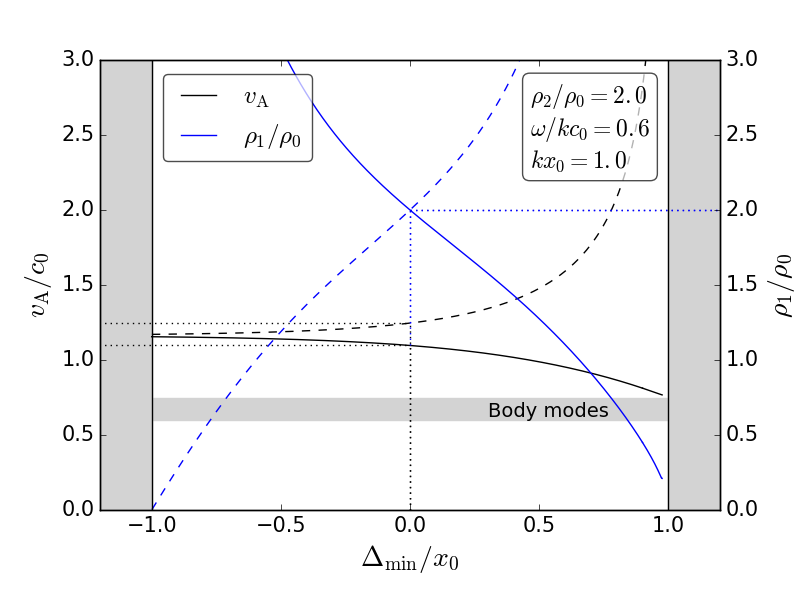
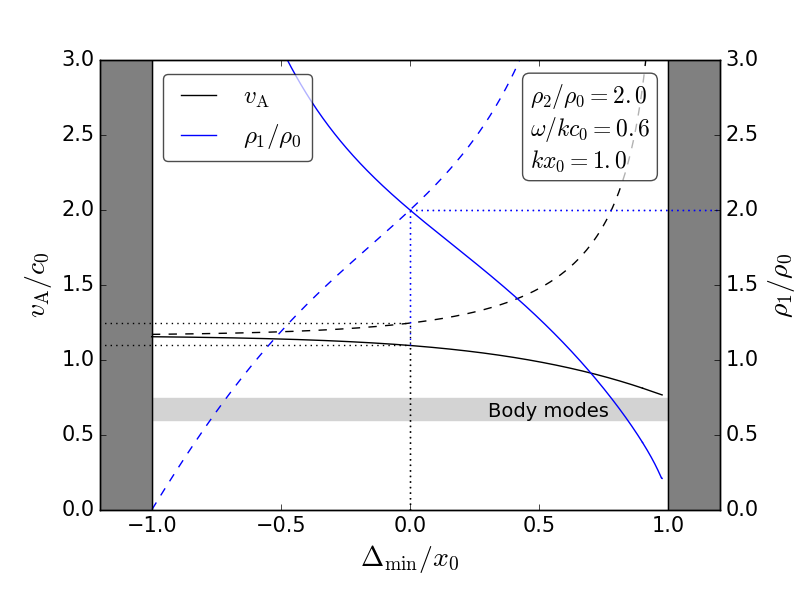
some things

Changed region(s): [[0.8125, 0.09, 0.9062, 0.87], [0.125, 0.09, 0.1875, 0.87]]

diff --git a/sms-vA-2var.py b/sms-vA-2var.py
@@ -338,8 +338,8 @@ if show_DM == True:
     ax1.set_ylabel(r'$v_\mathrm{A}/c_0$', fontsize = 20)
     ax1.set_xlabel(r'$\Delta_\mathrm{min}/x_0$', fontsize = 20)
     ax2.set_ylabel(r'$\rho_1 / \rho_0$', fontsize = 20)
-    ax1.fill_between((-1.2, -1.), (0.,0.), (5.,5.), color='lightgray')
-    ax1.fill_between((1., 1.2), (0.,0.), (5.,5.), color='lightgray')
+    ax1.fill_between((-1.2, -1.), (0.,0.), (5.,5.), color='gray')
+    ax1.fill_between((1., 1.2), (0.,0.), (5.,5.), color='gray')
     
     #legend
     lns = ln1+ln2
